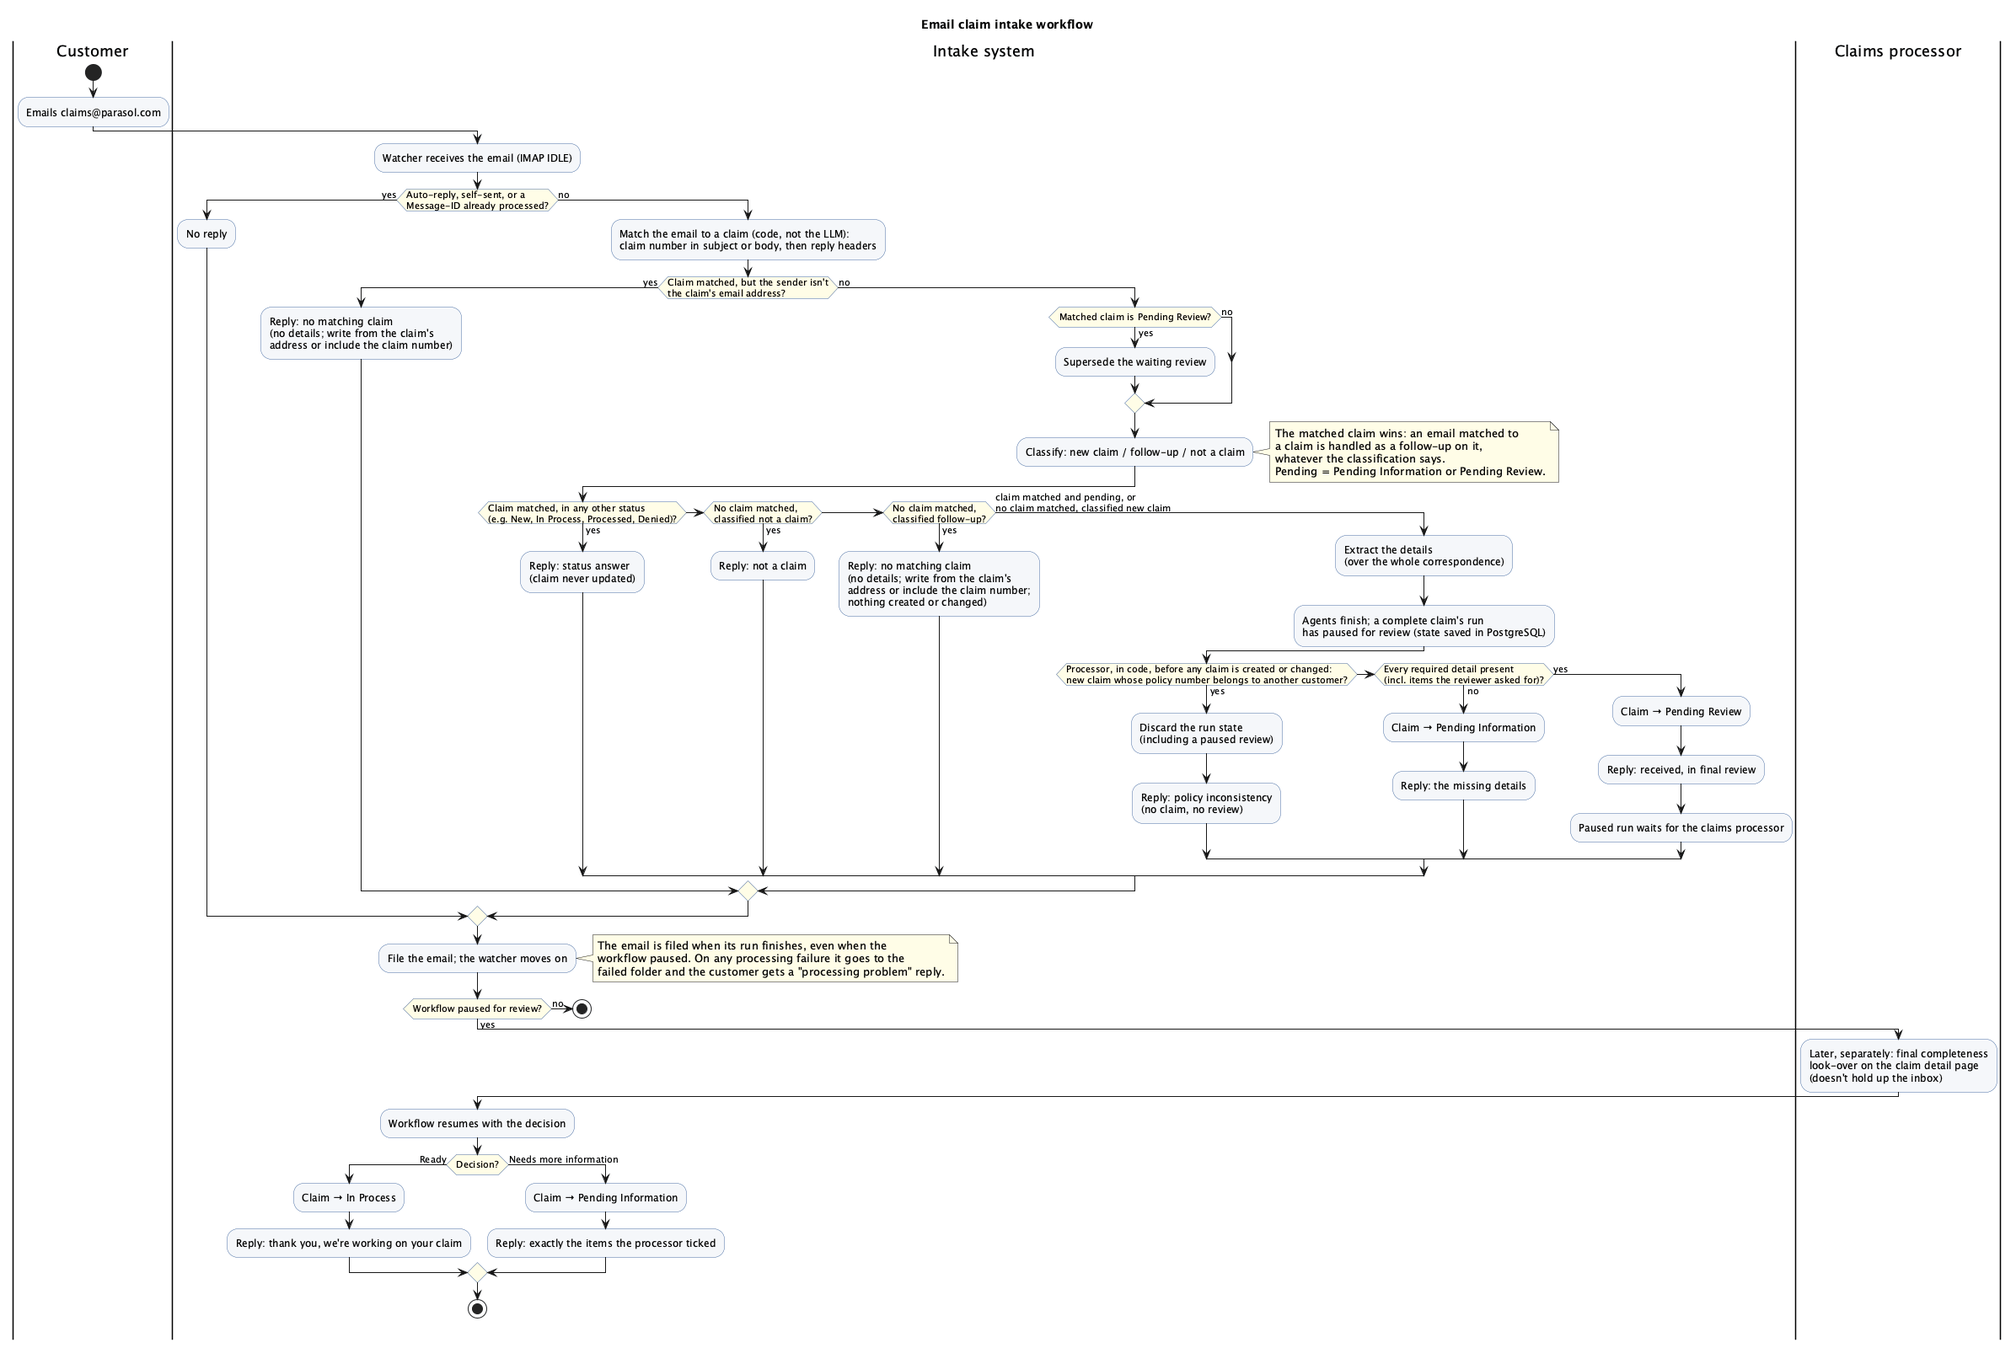
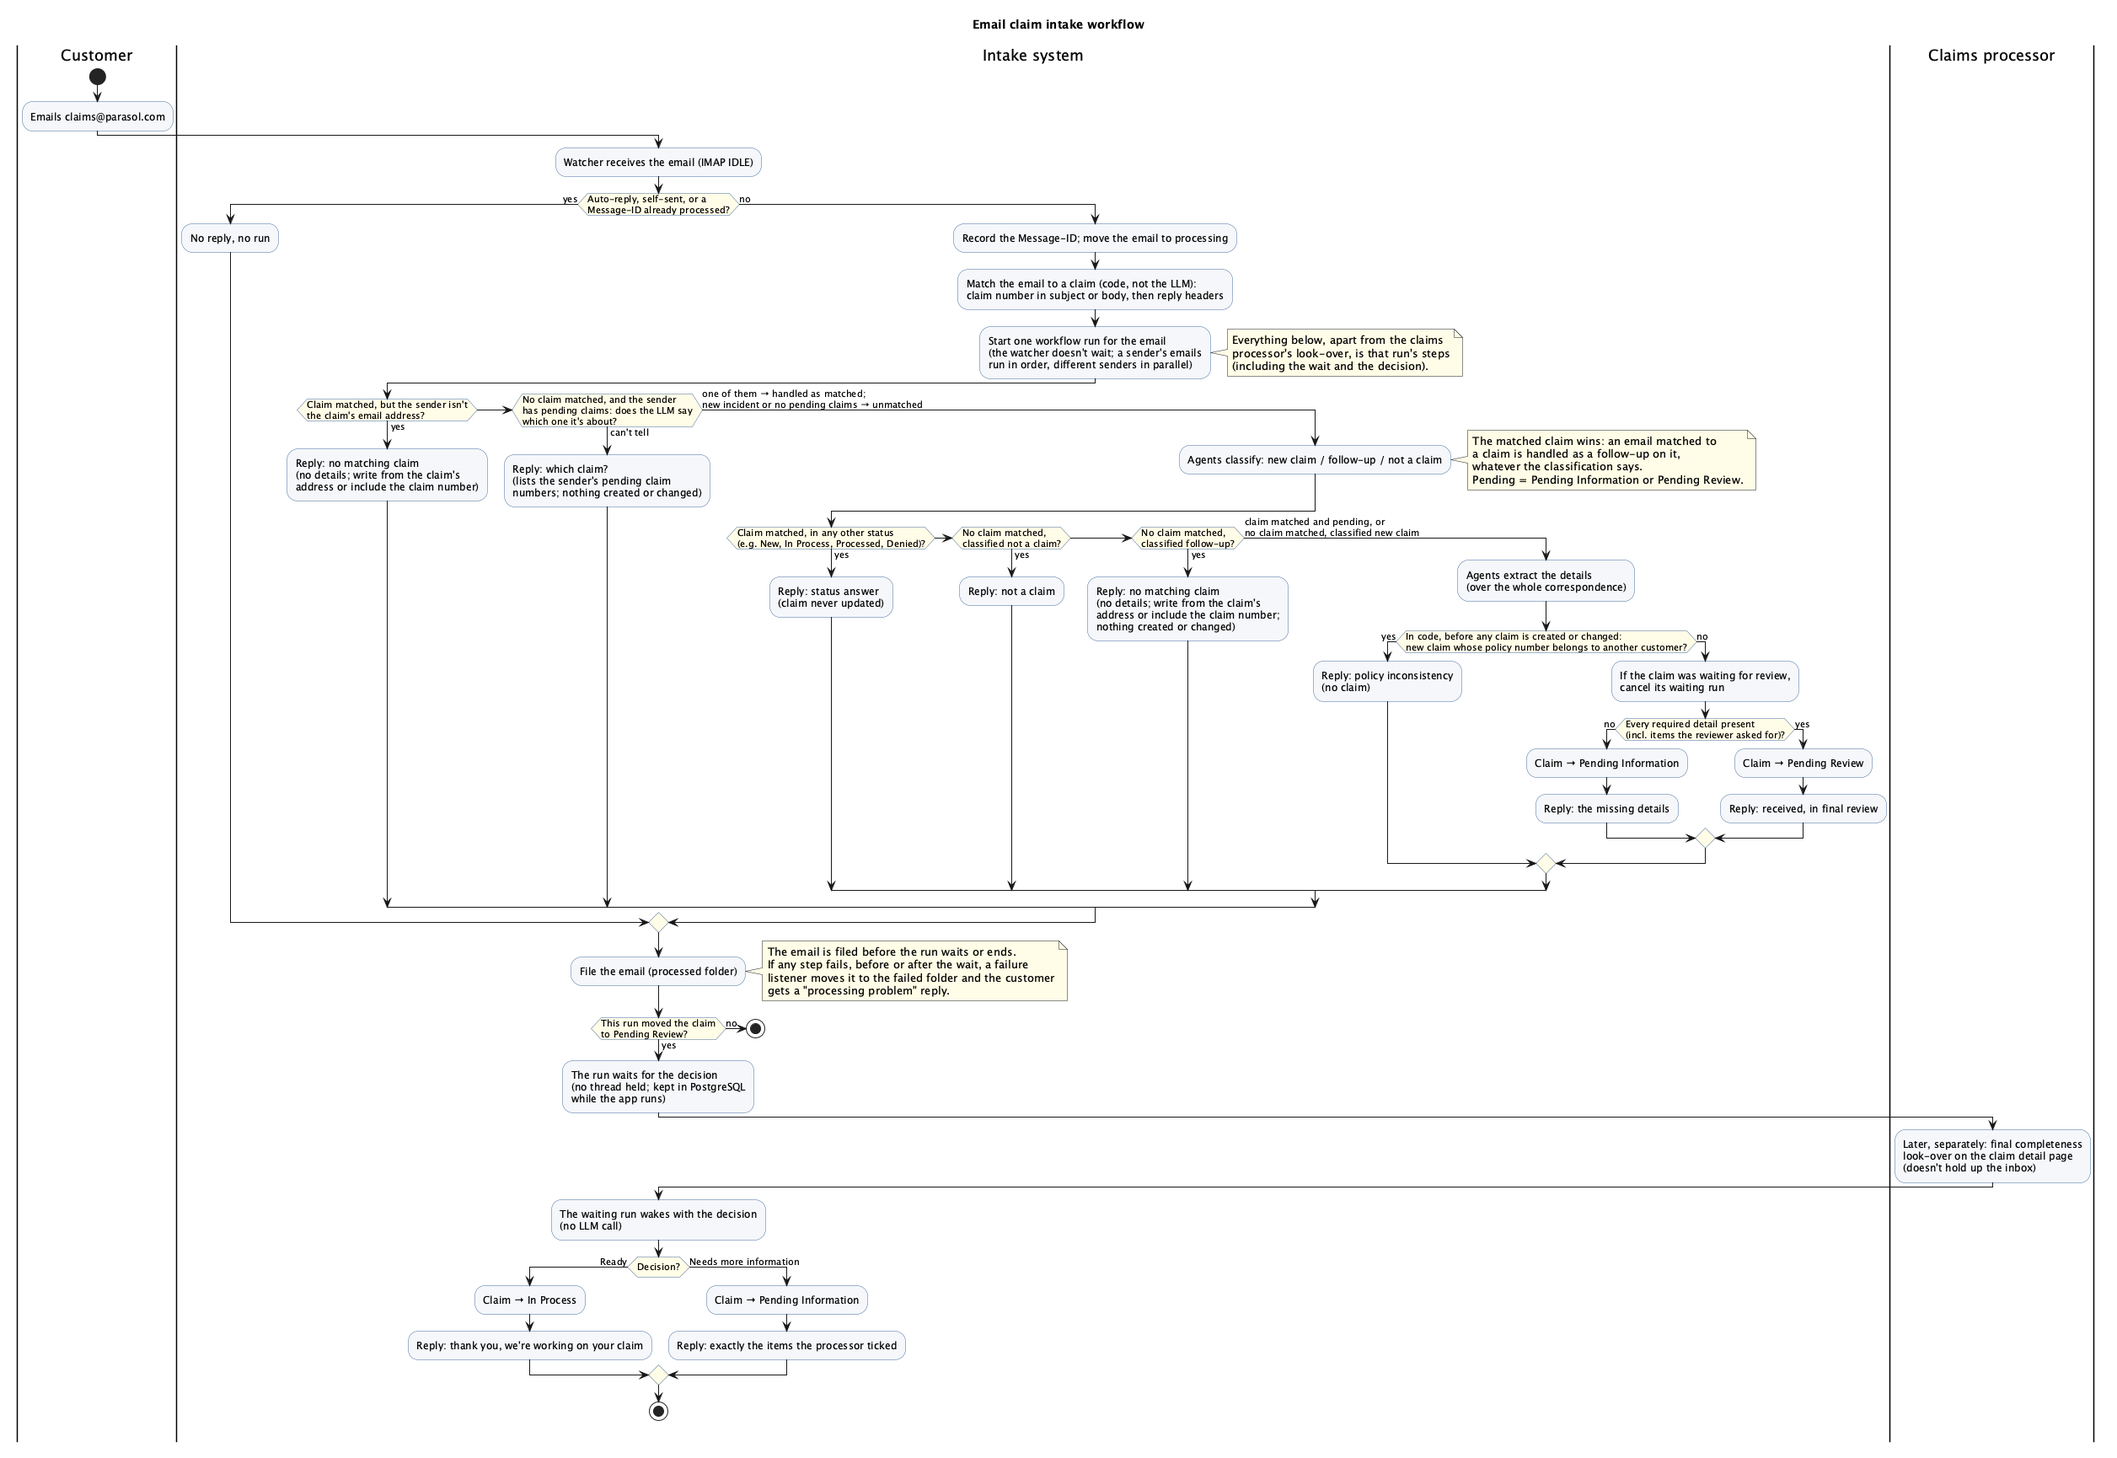
Revise the email intake design for quarkus-flow (#231)
* Revise the email intake design for quarkus-flow

The intake is now one quarkus-flow workflow per email, with the
agentic composition as one of its steps. This replaces the
@HumanInTheLoop + DatabaseAgenticScopeStore design merged in #220,
following the task 01b spike and its follow-ups.

- The review is the workflow's own wait (listen) and decision (switch)
  steps. A reply during review cancels the waiting run, after its own
  agents and policy check pass.
- The watcher doesn't wait for runs: different claims run in parallel,
  and a claim's emails run in order. A failure listener handles every
  failed run.
- The review endpoint publishes a decision event, after checking the
  run is still waiting.
- Durable state across restarts is not a requirement for this demo.
- Observability: one gen_ai.conversation.id per claim, carried as
  baggage by a framework-neutral ai.scoring.conversation package. Its
  known gaps and temporary workarounds are stated.

The three diagrams are updated and re-rendered. The architecture
diagram now shows the workflow steps around the agents.

Part of #216

* Route emails without a claim number to the sender's pending claim

If code can't match an email but the sender has pending claims, a new
resolveClaim step asks an LLM which of the sender's own claims it is
about (validated in code against that list), treats it as a new
incident, or replies "which claim?" listing their pending claim
[…]

diff --git a/docs/design/email-claim-intake.md b/docs/design/email-claim-intake.md
@@ -1,54 +1,72 @@
 # Design: email claim intake
 
 Status: proposed, for review before implementation ([#216](https://github.com/edeandrea/non-deterministic-no-problem/issues/216)).
+Revised after the quarkus-flow spike: the intake is now one [quarkus-flow](https://docs.quarkiverse.io/quarkus-flow/dev/)
+workflow, and the agents are one of its steps. This replaces the agentic human-in-the-loop design merged in
+[#220](https://github.com/edeandrea/non-deterministic-no-problem/pull/220).
 
 ## Goal
 
 Customers open a claim by emailing `claims@parasol.com`. The **intake system** classifies each email,
 extracts the details, asks the **customer** for anything missing and updates the claim as replies
 arrive. A **claims processor** then does one last completeness look-over (not an approval).
-The existing chat (`ClaimService`), `NotificationService` and `GenerateEmailService` stay unchanged,
-apart from the email sign-off shared with the new templates. Out of scope: non-English email, several
+The existing chat (`ClaimService`), `NotificationService` and `GenerateEmailService` behave as today.
+They share the email sign-off with the new templates, and the chat's conversation handling moves onto the
+new conversation package described under Observability, with no behaviour change. Out of scope: non-English email, several
 incidents in one email, the reviewer editing extracted fields, and drift detection for the new agents.
 
 The prerequisites are [#212](https://github.com/edeandrea/non-deterministic-no-problem/issues/212) (dependency upgrades), [#213](https://github.com/edeandrea/non-deterministic-no-problem/issues/213) (claim data model), [#214](https://github.com/edeandrea/non-deterministic-no-problem/issues/214) (claim images) and [#215](https://github.com/edeandrea/non-deterministic-no-problem/issues/215)
-(GreenMail and Roundcube). Progress is tracked in [#217](https://github.com/edeandrea/non-deterministic-no-problem/issues/217).
+(GreenMail and Roundcube), all merged. Progress is tracked in [#217](https://github.com/edeandrea/non-deterministic-no-problem/issues/217).
 
 ## Workflow
 
 ![Email claim intake workflow](claim-intake-workflow.png)
 
-A claim is **pending** while it is `Pending Information` or `Pending Review`.
+A claim is **pending** while it is `Pending Information` or `Pending Review`. Each email gets **one
+workflow run**, and the steps below are that run's steps.
 
-1. A watcher (IMAP IDLE) receives the email; emails are processed one at a time.
-2. Auto-replies, self-sent mail and duplicates (same `Message-ID`) are filed without a reply.
+1. A watcher (IMAP IDLE) receives the email, records its `Message-ID`, moves it to a `processing` folder
+   and starts its run **without waiting for it**. Runs for different customers go in parallel. One
+   customer's emails go in order: while their previous run is still working, the next email waits behind
+   it.
+2. Auto-replies, self-sent mail and duplicates (same `Message-ID`) are filed without a reply, and no run
+   starts.
 3. Code (not the LLM) matches the email to a claim: a claim number in the subject or body, then the
    reply headers. Only the claim's own email address may match it; anyone else gets the "no matching
    claim" reply, which gives no details and asks them to write from the claim's address or include
-   the claim number. A reply to a `Pending Review` claim supersedes the waiting review.
-4. The email is classified as a new claim, a follow-up or not a claim. **The matched claim wins:** a
-   matched email is a follow-up on that claim, whatever the label. Without a match the label decides;
+   the claim number. If nothing matched but the sender has pending claims, the run first asks an LLM
+   whether the email is about one of them (checked in code against those claims only). If it is, the email
+   is handled as a follow-up on that claim; if it's a new incident, as a new claim; if it can't tell, the
+   customer gets a "which claim?" reply listing their pending claim numbers, and nothing changes. A reply
+   to a `Pending Review` claim will **cancel** that claim's waiting run (step 6).
+4. The agents classify the email as a new claim, a follow-up or not a claim. **The matched claim wins:**
+   a matched email is a follow-up on that claim, whatever the label. Without a match the label decides;
    an unmatched "follow-up" gets the "no matching claim" reply, and nothing is created or changed.
 5. A matched claim in any other status (e.g. `New`, `In Process`, `Processed`, `Denied`) gets a status
    answer. For a matched pending claim, or an unmatched new claim, the details are extracted over the
    whole correspondence: what happened, incident date, location and category (`Other` counts).
-6. When the agents finish (a complete claim's run has already paused for review, state saved), the
-   processor applies the policy-number rule in code, before any claim is created or changed. If a
-   stated number belongs to another customer, it discards the run state, including a paused review,
-   and sends a vague "policy inconsistency" reply; no claim and no review exist.
+6. When the agents finish, the workflow applies the policy-number rule in code, before any claim is
+   created or changed. If a new claim states a number that belongs to another customer, it sends a vague
+   "policy inconsistency" reply and ends; no claim is created. Otherwise, if the claim was waiting for
+   review, its waiting run is cancelled now, just before the claim changes.
 7. If anything is missing, the claim is `Pending Information` and the customer is asked for exactly
    those items. Each reply starts again at step 1.
 8. When nothing is missing, the claim is `Pending Review`, the customer is told it's received and in
-   final review, and the paused run waits. Its state is saved in PostgreSQL, so it survives restarts.
-9. The email is filed when its run finishes, including when it pauses, and the watcher moves on. If
-   processing fails, the email goes to a failed folder and the customer gets a "processing problem" reply.
-10. Later, and separately, the claims processor decides on the claim detail page, and the workflow
-    resumes. **Ready** → `In Process` and a thank-you email. **Needs more information** (ticking items)
-    → `Pending Information` and an email listing exactly those items; the claim stays incomplete until
-    the customer answers them, so an empty reply doesn't go straight back to review.
+   final review, and the run **waits** for the claims processor without holding a thread. Flow keeps
+   the waiting run in PostgreSQL while the app runs. (A restart resets the demo: the claims, the mail
+   and any waiting review.)
+9. The run files the email before it waits or ends. If any step fails, before or after the wait, a
+   failure listener moves the email to a failed folder and the customer gets a "processing problem" reply.
+10. Later, and separately, the claims processor decides on the claim detail page, which wakes the
+    waiting run. **Ready** → `In Process` and a thank-you email. **Needs more information** (ticking
+    items) → `Pending Information` and an email listing exactly those items; the claim stays incomplete
+    until the customer answers them, so an empty reply doesn't go straight back to review. Applying the
+    decision makes no LLM call.
 
 Every submission gets a reply (fixed templates, except the AI-written status answer), apart from
-auto-replies, self-sent mail and duplicates.
+auto-replies, self-sent mail and duplicates. A reply and a decision arriving together are serialised by
+optimistic locking on the claim: whichever commits first wins. A losing decision gets a 409; a losing
+reply's email goes back in line behind the claim's run and is handled again under the claim's new status.
 
 ## Claim states
 
@@ -60,43 +78,73 @@ auto-replies, self-sent mail and duplicates.
 | (new) | New claim email with every detail present | `Pending Review` |
 | `Pending Information` | Customer reply, details still missing | `Pending Information` |
 | `Pending Information` | Customer reply completes the details | `Pending Review` |
-| `Pending Review` | Customer reply, details still complete: the waiting review is superseded by a new one | `Pending Review` |
-| `Pending Review` | Customer reply leaves details missing: the waiting review is superseded | `Pending Information` |
+| `Pending Review` | Customer reply, details still complete: the waiting run is cancelled and a new one waits | `Pending Review` |
+| `Pending Review` | Customer reply leaves details missing: the waiting run is cancelled | `Pending Information` |
 | `Pending Review` | Claims processor: Needs more information | `Pending Information` |
 | `Pending Review` | Claims processor: Ready | `In Process` |
 
 Claims in any other status (e.g. `New`, `In Process`, `Processed`, `Denied`) only get a status answer
 and are never updated. Intake never sets `New`.
 
-## Agent architecture
+## Architecture
 
-![Email claim intake agent topology](claim-intake-agents.png)
+![Email claim intake: workflow and agents](claim-intake-agents.png)
 
-`ClaimEmailProcessor` matches the claim and checks the sender, then calls the root workflow
-`ClaimsMailboxAgent` with the matched claim (or none). Its memory id is the inbound `Message-ID`. It
-runs three steps in sequence:
+**The workflow.** `ClaimIntakeFlow` is one quarkus-flow workflow, and its steps do the side effects
+(apart from filing skipped mail and handling a failed run, which a failure listener does): cancel a superseded run, check the policy number, save the claim and photos, send the reply
+(`IntakeReplySender`, Qute templates), and file the email. For a complete claim, a `listen` step then
+waits for a `REVIEW_DECIDED` event for that claim, and a `switch` applies the decision. Flow's Dev UI
+draws the workflow as a diagram. `ClaimIntakeStarter` does the checks before a run (loop and duplicate checks,
+claim match, sender check), keeps each sender's emails in order, and starts the run; nothing waits for
+it. Ordering by sender covers ordering by claim, because a claim only ever matches its own address.
+The app runs as a **single replica**: cancelling a run and delivering the decision event both happen
+in-process.
+
+**Resolving the claim.** Before the agents, a `resolveClaim` step handles an email that code couldn't
+match but whose sender has pending claims. `ClaimResolver` (an LLM service, not part of the agent
+topology) gets the email and those claims (number, short summary, what we asked for) and answers one of
+them, a new claim, or unsure; code accepts only a claim from that list. It only ever offers the sender
+their own claims, so the "which claim?" reply leaks nothing even if `From:` is spoofed.
+
+**The agents** are one workflow step. `ClaimsMailboxAgent` is the root (a sequence), called with the
+email, the matched claim (or none) and the claim's history:
 
 - `EmailClassifierAgent` (LLM) returns the email type.
 - `EmailRouter` (no LLM) routes on the matched claim first, then on the type:
   - matched pending claims, and unmatched new claims, go to `ClaimExtractionWorkflow`: three LLM agents
     in parallel, `ClaimSummaryAgent`, `ClaimSentimentAgent` and `IncidentDetailsAgent` (description,
-    date, location, category, stated policy number).
+    date, optional time, location, category, stated policy number).
   - matched claims in any other status go to `ClaimFollowUpAgent` (LLM), which writes the status
     answer using a read-only status tool.
-  - unmatched "not a claim" and "follow-up" emails go to a non-LLM agent for those two outcomes.
-- When every required detail is present, `ClaimReviewAgent` (non-LLM, human in the loop) pauses the
-  workflow without blocking a thread; `DatabaseAgenticScopeStore` saves the state.
+  - unmatched "not a claim" and "follow-up" emails go to `UnmatchedEmailAgent` (no LLM) for those two outcomes.
 
-The decision (`POST /api/db/claims/{id}/review-decisions`) goes to `ClaimReviewService`, which
-completes the pending review and re-runs the root with the same `Message-ID`. Completed agents are
-skipped; a non-LLM router turns the decision into the outcome. The paused state is deleted when the run
-ends, a customer reply supersedes the review, or the policy check rejects the claim.
+Flow runs each composite (sequence, router, parallel) as its own sub-workflow, and the parallel one really
+runs in parallel. The agents only decide: they return an `IntakeOutcome`, have no side effects, and never
+pause. All LLM agents use the `claim-intake` model. They're stateless (no chat memory, no retrieval over
+the policy PDF): the workflow passes the claim's history (correspondence, fields extracted so far, items
+requested) in on every run.
 
-All LLM agents use the `claim-intake` model. Agents only decide, returning an `IntakeOutcome` with no
-side effects. `ClaimEmailProcessor` checks the policy number, saves the claim and photos,
-sends the reply through `IntakeReplySender`, and files the email. The agents are stateless (no chat
-memory, no retrieval over the policy PDF); the processor passes the claim's history (correspondence,
-fields extracted so far, items requested) in on every run.
+**The review decision** (`POST /api/db/claims/{id}/review-decisions`) claims the review under the claim's
+lock, checks that the claim's run is still waiting (404 if it's gone, 409 if it isn't waiting), and
+publishes the decision event. It returns once the event is published (202), and the waiting run applies it.
 
-The framework workarounds this design depends on were verified in a throwaway spike for [#216](https://github.com/edeandrea/non-deterministic-no-problem/issues/216); the
-findings are summarised in the pull request that introduced this document.
+**Observability.** The goal is that every span of a claim's runs carries the same
+`gen_ai.conversation.id`, so Langfuse groups each claim into one session. One run is still several
+traces ([quarkus-flow#1056](https://github.com/quarkiverse/quarkus-flow/issues/1056)); the shared id is what
+ties them together. The id is OTel baggage, entered once when a run starts. The code that carries it across
+the chat, Flow and the agents is our own framework-neutral package, `ai.scoring.conversation`, kept
+separate so it can later become its own library. It has a small core (the conversation context, a span
+processor that stamps the id, and a "conversation ended" event), one adapter per framework, and no intake
+code. Two parts of it are temporary workarounds:
+- a guard for a Quarkus context-propagation bug ([quarkus#54354](https://github.com/quarkusio/quarkus/issues/54354)),
+  which otherwise leaks one run's id onto another run's spans;
+- an agent adapter that carries the id into Flow's generated agent sub-workflows until #1056 is fixed. It's
+  proven before implementation starts.
+
+The chat moves onto the same package, and session scoring becomes a listener for a "conversation ended"
+event. Nothing in the intake ends a conversation yet, so intake LLM calls get tier-1 scores but claims get
+no session score.
+
+quarkus-flow is 1.1.3; its LangChain4j and OpenTelemetry integrations are Preview extensions. The spike
+evidence behind this design is in
+[`spike-results-flow.md`](../../.tasks/05-gh216-agentic-email-intake/spike-results-flow.md).
